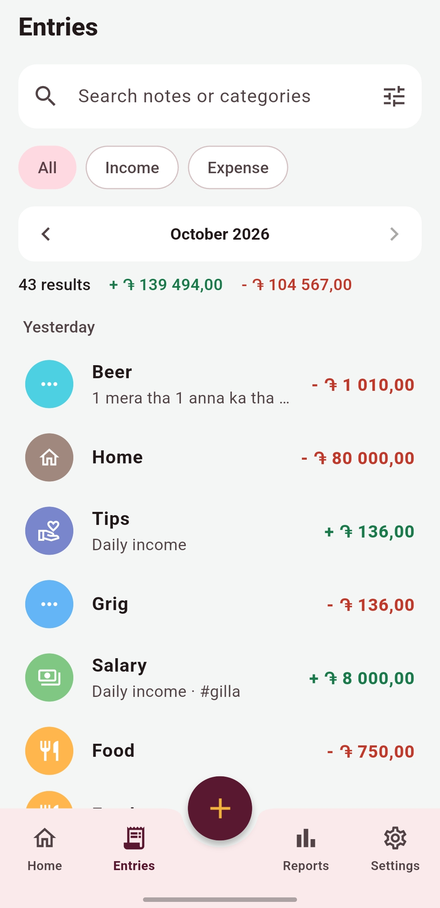
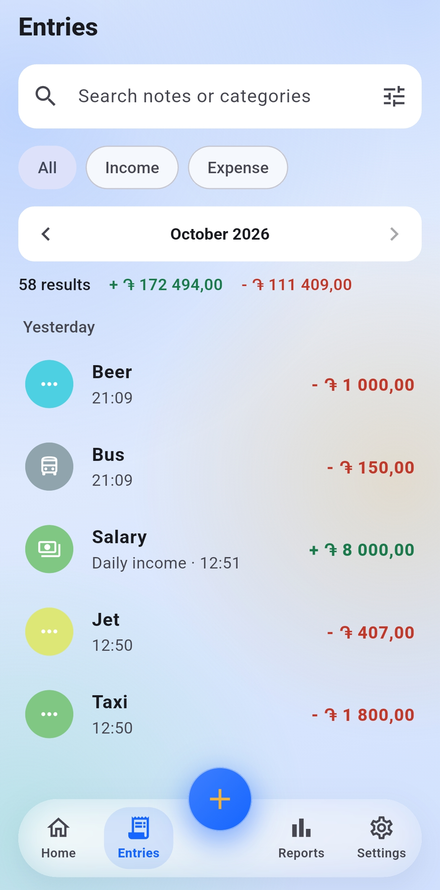
Update README and screenshots

diff --git a/test/v1_3_8_test.dart b/test/v1_3_8_test.dart
@@ -1,0 +1,24 @@
+import 'dart:io';
+
+import 'package:flutter_test/flutter_test.dart';
+
+void main() {
+  test('Version 1.3.8 is set everywhere', () {
+    expect(File('pubspec.yaml').readAsStringSync(),
+        contains('version: 1.3.8+35'));
+    expect(File('fastlane/metadata/android/en-US/changelogs/35.txt').existsSync(),
+        isTrue);
+    final recipe = File('fdroid/com.lumio.pockettally.yml').readAsStringSync();
+    expect(recipe, contains('versionCode: 35'));
+    expect(recipe, contains('commit: v1.3.8'));
+  });
+
+  test('README pictures exist', () {
+    final readme = File('README.md').readAsStringSync();
+    final pictures = RegExp(r'docs/[a-z/\-]+\.png').allMatches(readme);
+    expect(pictures, isNotEmpty);
+    for (final m in pictures) {
+      expect(File(m.group(0)!).existsSync(), isTrue, reason: m.group(0));
+    }
+  });
+}

diff --git a/test/v1_3_6_test.dart b/test/v1_3_6_test.dart
@@ -3,16 +3,6 @@ import 'dart:io';
 import 'package:flutter_test/flutter_test.dart';
 
 void main() {
-  test('Version 1.3.6 is set everywhere', () {
-    expect(File('pubspec.yaml').readAsStringSync(),
-        contains('version: 1.3.7+34'));
-    expect(File('fastlane/metadata/android/en-US/changelogs/34.txt').existsSync(),
-        isTrue);
-    final recipe = File('fdroid/com.lumio.pockettally.yml').readAsStringSync();
-    expect(recipe, contains('versionCode: 34'));
-    expect(recipe, contains('commit: v1.3.7'));
-  });
-
   test('The app is Android only', () {
     final workflow = File('.github/workflows/build.yml').readAsStringSync();
     expect(workflow, isNot(contains('windows-latest')));

diff --git a/README.md b/README.md
@@ -2,58 +2,69 @@
   <img src="docs/banner.png" alt="PocketTally – every coin, counted. Free offline income and expense tracker for Android.">
 </p>
 
+<h1 align="center">PocketTally</h1>
+
+<p align="center">
+  <b>Every coin, counted.</b><br>
+  A simple income and expense tracker that works completely offline.<br>
+  No account, no ads, no tracking, and not even an internet permission.
+</p>
+
 <p align="center">
   <a href="https://github.com/lumio-apps/pockettally/releases/latest"><img alt="Latest release" src="https://img.shields.io/github/v/release/lumio-apps/pockettally?label=download&color=1565FF"></a>
-  <img alt="Android" src="https://img.shields.io/badge/platform-Android-3D7FFF">
+  <img alt="Android 7.0+" src="https://img.shields.io/badge/Android-7.0%2B-3D7FFF">
+  <img alt="20 languages" src="https://img.shields.io/badge/languages-20-7BE0B5">
+  <img alt="No internet permission" src="https://img.shields.io/badge/internet-never-0E3B30">
   <a href="LICENSE"><img alt="License GPL-3.0" src="https://img.shields.io/badge/license-GPL--3.0-F2B33D"></a>
 </p>
 
 <p align="center">
-  A simple daily income and expense tracker that works completely offline.<br>
-  No account, no ads, no tracking. Your money data never leaves your device.<br>
-  Part of the <b>Lumio Apps</b> family.
+  <a href="#download">Download</a> ·
+  <a href="#screenshots">Screenshots</a> ·
+  <a href="#features">Features</a> ·
+  <a href="#privacy">Privacy</a> ·
+  <a href="#build-from-source">Build from source</a>
 </p>
 
 ---
 
 ## Download
 
-| System | File to take from [the latest release](https://github.com/lumio-apps/pockettally/releases/latest) |
-|---|---|
-| 📱 **Android** | `pockettally-vX.Y.Z-android.apk` – works on every phone |
+Get the APK from the **[latest release](https://github.com/lumio-apps/pockettally/releases/latest)**:
 
-The app has no internet access and no update check. To update, install the newer APK from the releases page over the old one; your data stays.
+📱 `pockettally-vX.Y.Z-android.apk` – works on every phone with Android 7.0 or newer.
 
-<details>
-<summary>Install notes</summary>
+1. Open the file on your phone and allow "Install unknown apps" for your browser or file manager when Android asks.
+2. To update, install the newer APK over the old one. Your data stays.
 
-- **Android:** allow "Install unknown apps" for your browser or file manager when asked.
-  The APK installs over any earlier PocketTally, your data stays.
+PocketTally has **no update check and no internet access**, so a new version only reaches you when you install it yourself (or through the store you got the app from).
 
-Use **Back up / Restore** to move your data to another phone.
-
-</details>
+> Moving to a new phone? Use **Settings › Back up data** on the old one and **Restore from backup** on the new one.
 
 ## Screenshots
 
 <table>
   <tr>
-    <td align="center"><img src="docs/screenshots/home-light.png" width="240" alt="Home"><br><sub><b>Home</b> – balance, spending overview, budget</sub></td>
-    <td align="center"><img src="docs/screenshots/entries.png" width="240" alt="Entries"><br><sub><b>Entries</b> – search, filters, month by month</sub></td>
-    <td align="center"><img src="docs/screenshots/add-menu.png" width="240" alt="Add menu"><br><sub><b>+</b> – expense, income, lend & borrow, goals</sub></td>
+    <td align="center" valign="top"><img src="docs/screenshots/home.png" width="200" alt="Home"><br><sub><b>Home</b><br>balance, spending, budget</sub></td>
+    <td align="center" valign="top"><img src="docs/screenshots/entries.png" width="200" alt="Entries"><br><sub><b>Entries</b><br>search and filter</sub></td>
+    <td align="center" valign="top"><img src="docs/screenshots/reports.png" width="200" alt="Reports"><br><sub><b>Reports</b><br>week, month, year</sub></td>
+    <td align="center" valign="top"><img src="docs/screenshots/settings.png" width="200" alt="Settings"><br><sub><b>Settings</b><br>language, theme, backup</sub></td>
   </tr>
   <tr>
-    <td align="center"><img src="docs/screenshots/home-dark.png" width="240" alt="Dark theme"><br><sub><b>Dark theme</b> and six accent colors</sub></td>
-    <td align="center"><img src="docs/screenshots/settings.png" width="240" alt="Settings"><br><sub><b>Settings</b> – profile, language, theme</sub></td>
-    <td align="center"><img src="docs/screenshots/lock.png" width="240" alt="App lock"><br><sub><b>App lock</b> with a 4-digit PIN</sub></td>
+    <td align="center" valign="top"><img src="docs/screenshots/add-entry.png" width="200" alt="New entry"><br><sub><b>New entry</b><br>in a few taps</sub></td>
+    <td align="center" valign="top"><img src="docs/screenshots/lend-borrow.png" width="200" alt="Lend and Borrow"><br><sub><b>Lend &amp; Borrow</b><br>who owes whom</sub></td>
+    <td align="center" valign="top"><img src="docs/screenshots/goals.png" width="200" alt="Savings goals"><br><sub><b>Savings goals</b><br>with progress</sub></td>
+    <td align="center" valign="top"><img src="docs/screenshots/lock.png" width="200" alt="App lock"><br><sub><b>App lock</b><br>4-digit PIN</sub></td>
   </tr>
 </table>
 
+The look is frosted glass on a soft gradient in the colors of the accent color you pick (six to choose from), in light and dark mode.
+
 ## Why PocketTally
 
-- **Private by design.** No sign-up, no cloud, no ads, no analytics. The app works without internet; your data sits in a database on your device.
-- **Made for daily life.** Add an expense in a few seconds, split a bill with friends, keep track of money you lent, and see where your money went this month.
-- **For everyone.** 20 languages (10 of them Indian: Hindi, Bengali, Urdu, Gujarati, Tamil, Telugu, Marathi, Kannada, Malayalam, Punjabi), 27 currencies and local number formats like 12,34,567.89.
+- **Private by design.** No sign-up, no cloud, no ads, no analytics. The app has no internet permission at all, so it cannot send anything anywhere. Your data sits in a database on your phone.
+- **Quick.** Add an expense in a few seconds, split a bill with friends, keep track of money you lent, and see where your money went this month.
+- **For everyone.** 20 languages (10 of them Indian), 27 currencies and local number formats like 12,34,567.89.
 - **Free forever.** Open source under GPL-3.0. No premium version, no locked features.
 
 ## Features
@@ -67,20 +78,16 @@ Use **Back up / Restore** to move your data to another phone.
 
 **Understand**
 - Monthly balance, income and expenses on Home
-- **Reports** for any week, month or year: net savings, the change from the
-  period before, a donut by category and income vs expenses over time
+- **Reports** for any week, month or year: net savings, the change from the period before, a donut by category and income vs expenses over time
 - **Highlights** like "You spent 12% less than last month"
 - **Calendar** view and **upcoming bills**
 - **Search and filter** by text, type, category, date and amount
-- **PDF report** in your language: pick the period (also a whole year), the
-  entries, categories and sections; made on the device
+- **PDF report** in your language: pick the period (also a whole year), the entries, categories and sections; made on your phone
 
 **Plan**
 - **Budgets:** a monthly limit and a limit per category, with warnings, and optional carry-over of what's left
-- **Lend & Borrow:** who owes you, whom you owe, part payments, and reminders
-  to ask for the money or pay it back (Android)
-- **Split bill:** share an expense with friends, equally or with your own
-  amounts; your share is the expense, the rest goes to Lend & Borrow
+- **Lend & Borrow:** who owes you, whom you owe, part payments, and reminders to ask for the money or pay it back
+- **Split bill:** share an expense with friends, equally or with your own amounts; your share is the expense, the rest goes to Lend & Borrow
 - **Savings goals** with progress
 
 **Your data, your way**
@@ -89,12 +96,10 @@ Use **Back up / Restore** to move your data to another phone.
 - **CSV export and import** for Excel, LibreOffice or Google Sheets
 - **Categories:** add, rename, recolor, reorder, hide or delete
 
-**Private**
+**Private and handy**
 - **App lock** with a 4-digit PIN
-- **Daily reminder** (Android) on days you haven't added anything
-
-**On the home screen (Android)**
-- A big and a small **widget** with this month's balance and − / + buttons
+- **Daily reminder** on days you haven't added anything
+- **Home screen widgets** with this month's balance and − / + buttons
 - **Shortcuts:** long-press the app icon for "Add expense" or "Add income"
 
 **Make it yours**
@@ -112,36 +117,34 @@ Use **Back up / Restore** to move your data to another phone.
 - The app has no internet permission at all: it cannot send anything anywhere.
 - The app lock PIN is stored only as a salted hash, never as the PIN itself.
 - Backups, CSV files and PDF reports are saved only where you choose.
-- Read the full [Privacy Policy](PRIVACY.md).
+
+Read the full [Privacy Policy](PRIVACY.md).
 
 ## Translations
 
-Texts live in `lib/l10n/app_<language>.arb`. To fix a translation, edit the
-line in that file and open a pull request. The app code is generated from
-these files by `flutter pub get`.
+Texts live in `lib/l10n/app_<language>.arb`. To fix a translation, edit the line in that file and open a pull request. The app code is generated from these files by `flutter pub get`.
 
 ## Build from source
+
+You need [Flutter](https://docs.flutter.dev/get-started/install) (stable channel).
 
 ```
 flutter pub get
 flutter analyze
 flutter test
-```
-
-The `android/` folder, the app icon and the splash
-screen are generated by GitHub Actions. Release signing setup: see
-[SETUP_ANDROID.md](SETUP_ANDROID.md).
-
-Build the APK:
-
-```
 flutter build apk --release
 ```
 
-Each `vX.Y.Z` tag builds the Android release files.
-Before tagging, raise `version:` in `pubspec.yaml` to the same number.
+The `android/` folder, the app icon and the splash screen are generated by GitHub Actions. Release signing setup: see [SETUP_ANDROID.md](SETUP_ANDROID.md).
+
+Each `vX.Y.Z` tag builds the release files. Before tagging, raise `version:` in `pubspec.yaml` to the same number.
+
+## Contributing
+
+Bug reports, translation fixes and ideas are welcome: [open an issue](https://github.com/lumio-apps/pockettally/issues) or send a pull request. The app stays offline, without ads or tracking, so features that need the internet will not be added.
 
 ## License
 
-[GPL-3.0](LICENSE). The bundled DejaVu fonts use their own free license, see
-`assets/fonts/DejaVu-LICENSE.txt`.
+[GPL-3.0](LICENSE). The bundled DejaVu fonts use their own free license, see `assets/fonts/DejaVu-LICENSE.txt`.
+
+<p align="center"><sub>Made by <b>Lumio Apps</b></sub></p>

diff --git a/CHANGELOG.md b/CHANGELOG.md
@@ -1,5 +1,11 @@
 # Changelog
 
+## 1.3.8 (README and screenshots)
+
+- New README with screenshots of the glass look, and a new banner
+- New store screenshots and feature graphic for Google Play and F-Droid
+- No change in how the app works
+
 ## 1.3.7 (no update check)
 
 - The "Check for updates" button and the code behind it are gone. The app never goes online now, in every version (Google Play, F-Droid and GitHub): no internet permission and no permission to install apps
